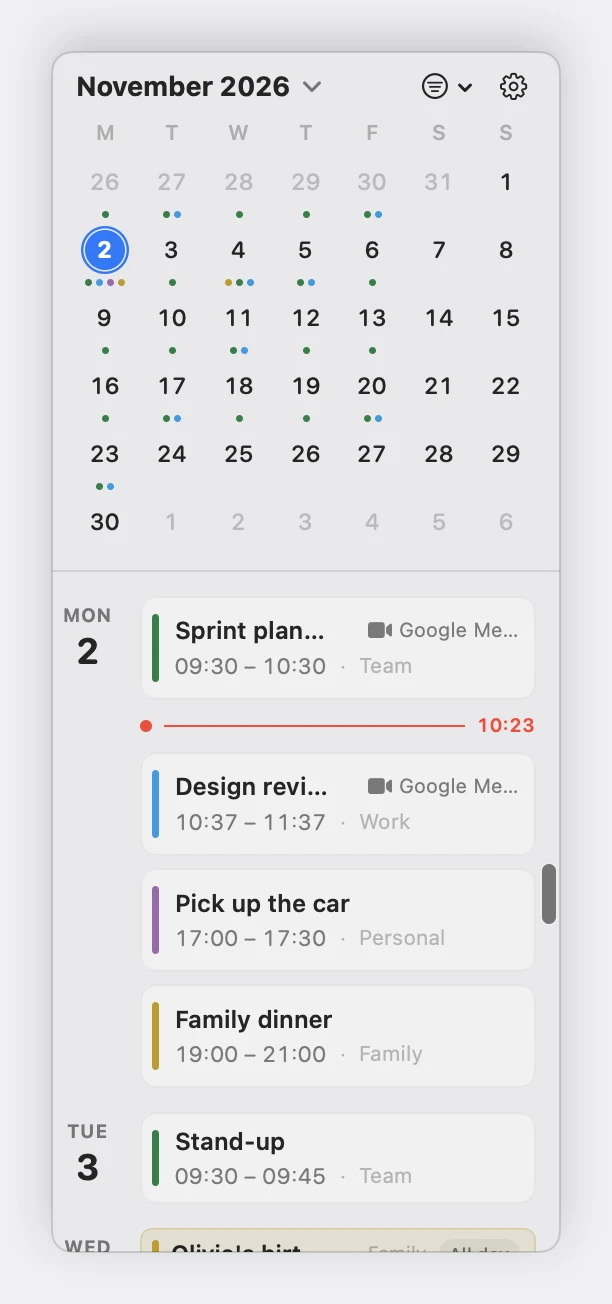
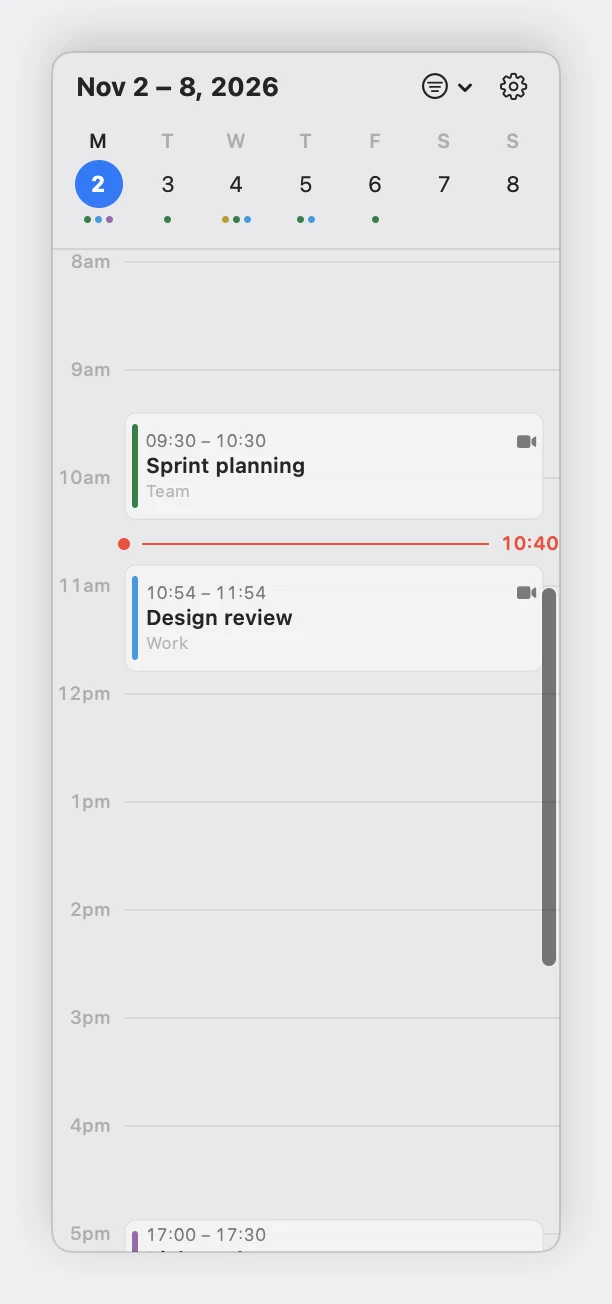
feat(website): add multi-view sidebar carousel and Starlight tab gallery
- Render standalone Week, Month, and Day companion sidebar shots using tools/shots, defaulting to Week view to highlight the contrast with the menu bar popover.
- Add pure CSS tabbed carousel to the Magical landing page sidebar section for switching between Week, Month, and Day views.
- Convert sidebar documentation to Starlight MDX with interactive tabbed gallery showing Week, Month, and Day companion layouts.

diff --git a/tools/shots/Sources/shots/main.swift b/tools/shots/Sources/shots/main.swift
@@ -789,23 +789,30 @@ MainActor.assumeIsolated {
 
     write("shot-tasks-magical", magicalTasks, size: CGSize(width: 340 + 52, height: 300 + 52))
 
-    // 7. Magical companion sidebar
-    let magicalSidebarModel = MagicalHelperLib.SidebarModel()
-    magicalSidebarModel.trayModel.update(from: magicalSidebarTrayPayload)
-    magicalSidebarModel.setViewMode(.fantastical, anchor: now)
+    // 7. Magical companion sidebar (Week, Month, Day views)
+    @MainActor
+    func makeSidebarShot(mode: MagicalHelperLib.SidebarViewMode) -> some View {
+        let model = MagicalHelperLib.SidebarModel()
+        model.trayModel.update(from: magicalSidebarTrayPayload)
+        model.setViewMode(mode, anchor: now)
 
-    let magicalSidebar = MagicalHelperLib.SidebarRootView(model: magicalSidebarModel)
-        .frame(width: 254, height: 600)
-        .background(Color(red: 0.98, green: 0.98, blue: 0.99))
-        .clipShape(RoundedRectangle(cornerRadius: 10))
-        .overlay(
-            RoundedRectangle(cornerRadius: 10)
-                .stroke(Color.black.opacity(0.12), lineWidth: 1)
-        )
-        .shadow(color: .black.opacity(0.18), radius: 12, x: 0, y: 6)
-        .padding(26)
-        .background(Color(red: 0.937, green: 0.937, blue: 0.949))
-        .environment(\.colorScheme, .light)
+        return MagicalHelperLib.SidebarRootView(model: model)
+            .frame(width: 254, height: 600)
+            .background(Color(red: 0.98, green: 0.98, blue: 0.99))
+            .clipShape(RoundedRectangle(cornerRadius: 10))
+            .overlay(
+                RoundedRectangle(cornerRadius: 10)
+                    .stroke(Color.black.opacity(0.12), lineWidth: 1)
+            )
+            .shadow(color: .black.opacity(0.18), radius: 12, x: 0, y: 6)
+            .padding(26)
+            .background(Color(red: 0.937, green: 0.937, blue: 0.949))
+            .environment(\.colorScheme, .light)
+    }
 
-    write("shot-sidebar-magical", magicalSidebar, size: CGSize(width: 254 + 52, height: 600 + 52))
+    let sidebarShotSize = CGSize(width: 254 + 52, height: 600 + 52)
+    write("shot-sidebar-week-magical", makeSidebarShot(mode: .week), size: sidebarShotSize)
+    write("shot-sidebar-magical", makeSidebarShot(mode: .week), size: sidebarShotSize)
+    write("shot-sidebar-month-magical", makeSidebarShot(mode: .fantastical), size: sidebarShotSize)
+    write("shot-sidebar-day-magical", makeSidebarShot(mode: .day), size: sidebarShotSize)
 }

diff --git a/website/src/assets/site.css b/website/src/assets/site.css
@@ -868,6 +868,83 @@ kbd {
   display: none;
 }
 
+/* --- sidebar carousel: week, month and day views swapped by radio --- */
+
+.sidebar-carousel {
+  display: grid;
+  justify-items: center;
+  gap: 1rem;
+  width: 100%;
+}
+
+.sidebar-carousel__pick {
+  display: inline-flex;
+  padding: 3px;
+  background: rgb(11 9 24 / 65%);
+  border: 1px solid var(--hairline);
+  border-radius: 999px;
+  box-shadow: 0 4px 12px rgb(0 0 0 / 25%);
+}
+
+.sidebar-carousel__pick input {
+  position: absolute;
+  width: 1px;
+  height: 1px;
+  overflow: hidden;
+  clip-path: inset(50%);
+}
+
+.sidebar-carousel__pick label {
+  padding: 0.3rem 0.95rem;
+  border-radius: 999px;
+  font-size: var(--fs-small);
+  color: var(--mist);
+  cursor: pointer;
+  transition:
+    background 140ms ease,
+    color 140ms ease;
+  user-select: none;
+}
+
+.sidebar-carousel__pick label:hover {
+  color: var(--paper);
+}
+
+.sidebar-carousel__pick input:checked + label {
+  background: rgb(244 241 234 / 14%);
+  color: var(--paper);
+  font-weight: 500;
+}
+
+.sidebar-carousel__pick input:focus-visible + label {
+  outline: 2px solid var(--gilt);
+  outline-offset: 2px;
+}
+
+.sidebar-carousel__views {
+  display: grid;
+  place-items: center;
+  width: 100%;
+}
+
+.sidebar-carousel__slide {
+  grid-area: 1 / 1;
+  transition:
+    opacity 160ms ease,
+    transform 160ms ease;
+}
+
+.sidebar-carousel:has(#sidebar-view-week:checked)
+  .sidebar-carousel__slide:not(.sidebar-carousel__slide--week),
+.sidebar-carousel:has(#sidebar-view-month:checked)
+  .sidebar-carousel__slide:not(.sidebar-carousel__slide--month),
+.sidebar-carousel:has(#sidebar-view-day:checked)
+  .sidebar-carousel__slide:not(.sidebar-carousel__slide--day) {
+  opacity: 0;
+  pointer-events: none;
+  visibility: hidden;
+}
+
 /* --- hero showcase: the apps in action under the hero --- */
 
 .hero-showcase {
